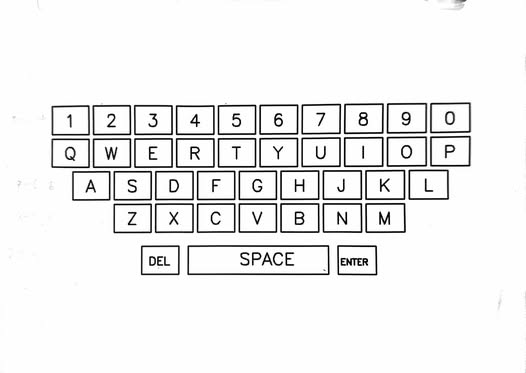
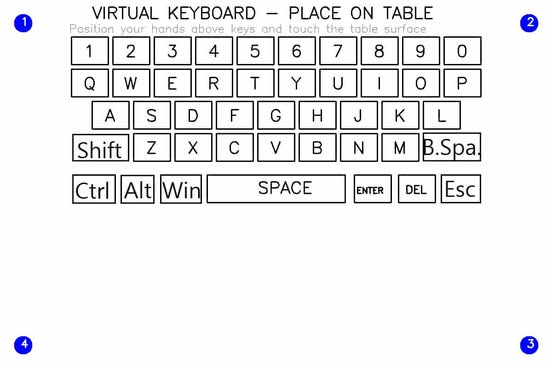
Update README

diff --git a/README.md b/README.md
@@ -5,11 +5,14 @@ A computer vision-based virtual keyboard interface that uses depth sensing and h
 ## Features
 
 - Real-time hand tracking with MediaPipe
-- Depth-based keypress detection
-- Support for multiple keyboard rows with different depth thresholds
-- Visual feedback for finger positions and key presses
+- Depth-based keypress detection using Intel RealSense camera
+- Multi-finger tracking support (thumb, index, middle, ring, and pinky)
+- Visual feedback system for finger positions and keypresses
+- Configurable depth thresholds for different keyboard rows
 - Support for special keys (ENTER, SPACE, DELETE)
 - Real-time text display of typed content
+- Interactive keyboard annotation tool
+
 
 ## Requirements
 
@@ -25,11 +28,12 @@ A computer vision-based virtual keyboard interface that uses depth sensing and h
 
 The project consists of several key components:
 
-- `camera_manager.py`: Handles RealSense camera initialization and frame capture
-- `hand_tracker.py`: Implements hand landmark detection using MediaPipe
-- `visualization_utils.py`: Contains utilities for visual feedback
-- `keyboard_manager.py`: Manages keyboard layout and key detection
-- `main.py`: Main application loop and keyboard interface implementation
+- `main.py`: Core application entry point and keyboard interface implementation
+- `camera_manager.py`: RealSense camera initialization and frame capture handling
+- `hand_tracker.py`: MediaPipe-based hand landmark detection and tracking
+- `keyboard_manager.py`: Keyboard layout and key detection management
+- `visualization_utils.py`: Visual feedback and display utilities
+- `depth_tracker.py`: Depth tracking and threshold management
 
 ## Configuration
 
@@ -37,24 +41,8 @@ The system uses the following key configurations:
 
 ### Keyboard Layout
 ![keyboard.jpg](images/keyboard.jpg)
-- 5 rows of keys:
-  - Row 1: Numbers (0-9)
-  - Row 2: QWERTYUIOP
-  - Row 3: ASDFGHJKL
-  - Row 4: ZXCVBNM
-  - Row 5: Special keys (DEL, SPACE, ENTER)
 
-### Depth Thresholds 
 
-The lowerbound and upperbound of each row's depth
-
-```python
-DEPTH_THRESHOLD_ROW_1 = (0.285, 0.304) 
-DEPTH_THRESHOLD_ROW_2 = (0.295, 0.311) 
-DEPTH_THRESHOLD_ROW_3 = (0.305, 0.318) 
-DEPTH_THRESHOLD_ROW_4 = (0.310, 0.326) 
-DEPTH_THRESHOLD_ROW_5 = (0.325, 0.335)
-```
 
 
 ## Usage
@@ -77,13 +65,18 @@ DEPTH_THRESHOLD_ROW_5 = (0.325, 0.335)
    python keyboard_annotation.py 
    ```
 2. Controls:
-   - 'c': Capture current frame for annotation
-   - Mouse clicks: Place points for key corners (4 points per key)
-   - '+'/'-': Zoom in/out for precise point placement
-   - Arrow keys: Pan the zoomed view
-   - 'r': Reset zoom and pan
-   - 's': Save annotations to JSON file
-   - 'q': Quit the program
+   - `c`: Capture current frame for annotation
+   - `Mouse clicks`: Place points for key corners (4 points per key)
+   - `+`/`-`: Zoom in/out for precise point placement
+   - Pan the zoomed view
+     - `;`: Move up
+     - `,`: Move left
+     - `.`: Move down
+     - `/`: Move right
+   - `r`: Reset zoom and pan
+   - `s`: Save annotations to JSON file
+   - `q`: Quit the program
+   - 
 
 3. Annotation Process:
    - Capture a clear frame of the keyboard using 'c'
@@ -93,6 +86,70 @@ DEPTH_THRESHOLD_ROW_5 = (0.325, 0.335)
    3. Confirm to save the key annotation
     - Use zoom/pan as needed for accurate point placement
     - Save progress periodically using 's'
+
+### Create Depth Threshold for Each Keycap
+1. Start the depth tracker tool
+
+    ```bash
+    python depth_tracker.py
+    ```
+   
+2. Place your index finger each keycap in a period of time
+    ![depth_tracker_demo.PNG](images/depth_tracker_demo.PNG)
+3. Save your result in the `assets/key_thresholds.json` file
+
+- Save the thresholds (min and max depth of the fingertip when press keycap) of each keycap
+- Examples:
+    ```json
+    {
+        "1": [0.264, 0.275],
+        "2": [0.264, 0.276],
+        "3": [0.265, 0.280],
+        "4": [0.270, 0.280],
+        "5": [0.270, 0.281],
+        "6": [0.272, 0.282],
+        "7": [0.275, 0.281],
+        "8": [0.277, 0.282],
+        "9": [0.276, 0.284],
+        "0": [0.276, 0.284],
+        "q": [0.265, 0.275],
+        "w": [0.265, 0.275],
+        "e": [0.270, 0.278],
+        "r": [0.265, 0.280],
+        "t": [0.270, 0.281],
+        "y": [0.272, 0.282],
+        "u": [0.273, 0.284],
+        "i": [0.272, 0.283],
+        "o": [0.275, 0.285],
+        "p": [0.275, 0.288],
+        "a": [0.265, 0.278],
+        "s": [0.265, 0.278],
+        "d": [0.268, 0.276],
+        "f": [0.268, 0.280],
+        "g": [0.270, 0.280],
+        "h": [0.270, 0.281],
+        "j": [0.274, 0.283],
+        "k": [0.275, 0.283],
+        "l": [0.275, 0.284],
+        "SHIFT": [0.267, 0.275],
+        "z": [0.268, 0.278],
+        "x": [0.268, 0.279],
+        "c": [0.268, 0.280],
+        "v": [0.268, 0.281],
+        "b": [0.270, 0.282],
+        "n": [0.272, 0.282],
+        "m": [0.274, 0.282],
+        "BACKSPACE": [0.276, 0.283],
+        "CTRL": [0.265, 0.275],
+        "ALT": [0.264, 0.275],
+        "WIN": [0.269, 0.280],
+        "SPACE": [0.265, 0.280],
+        "ENTER": [0.271, 0.281],
+        "DEL": [0.272, 0.283],
+        "ESC": [0.274, 0.283]
+    }
+    ```
+
 ### Main Program
 1. Ensure your RealSense camera is connected
 2. Run the main script:
@@ -137,6 +194,12 @@ Eeach key annotation contains:
 - `key`: The character of special key name
 - `points`: Array of 4 corner coordinates
 
+### Depth Tracking Features
+- Utilizes RealSense depth camera capabilities
+- Configurable depth thresholds per keycap
+
+**I used this tools to create threshold for each keycap**
+
 ### Hand Tracking
 The system tracks five finger positions:
 - Thumb
@@ -150,7 +213,7 @@ Each finger's position and depth are monitored for potential keypresses.
 ### Keypress Detection
 A keypress is registered when:
 1. The finger position overlaps with a key's boundary
-2. The finger's depth matches the specific row's depth threshold
+2. The finger's depth matches the specific keycap's depth threshold
 
 ### Visual Feedback
 The interface provides:
@@ -169,10 +232,11 @@ Press 'q' to quit the application.
 - The system is designed for single-hand operation
 
 ## Future Improvements
-- Multi-finger support
-- Automatic keyboard layout detection
-- Enhance accuracy
-- Support for additional special characters
+- [x] Multi-finger support
+- [ ] Automatic keyboard layout detection
+- [ ] Enhance accuracy
+- [ ] Support for additional special characters
+- 
 
 # Demo
 ![demo.PNG](images/demo.PNG)
